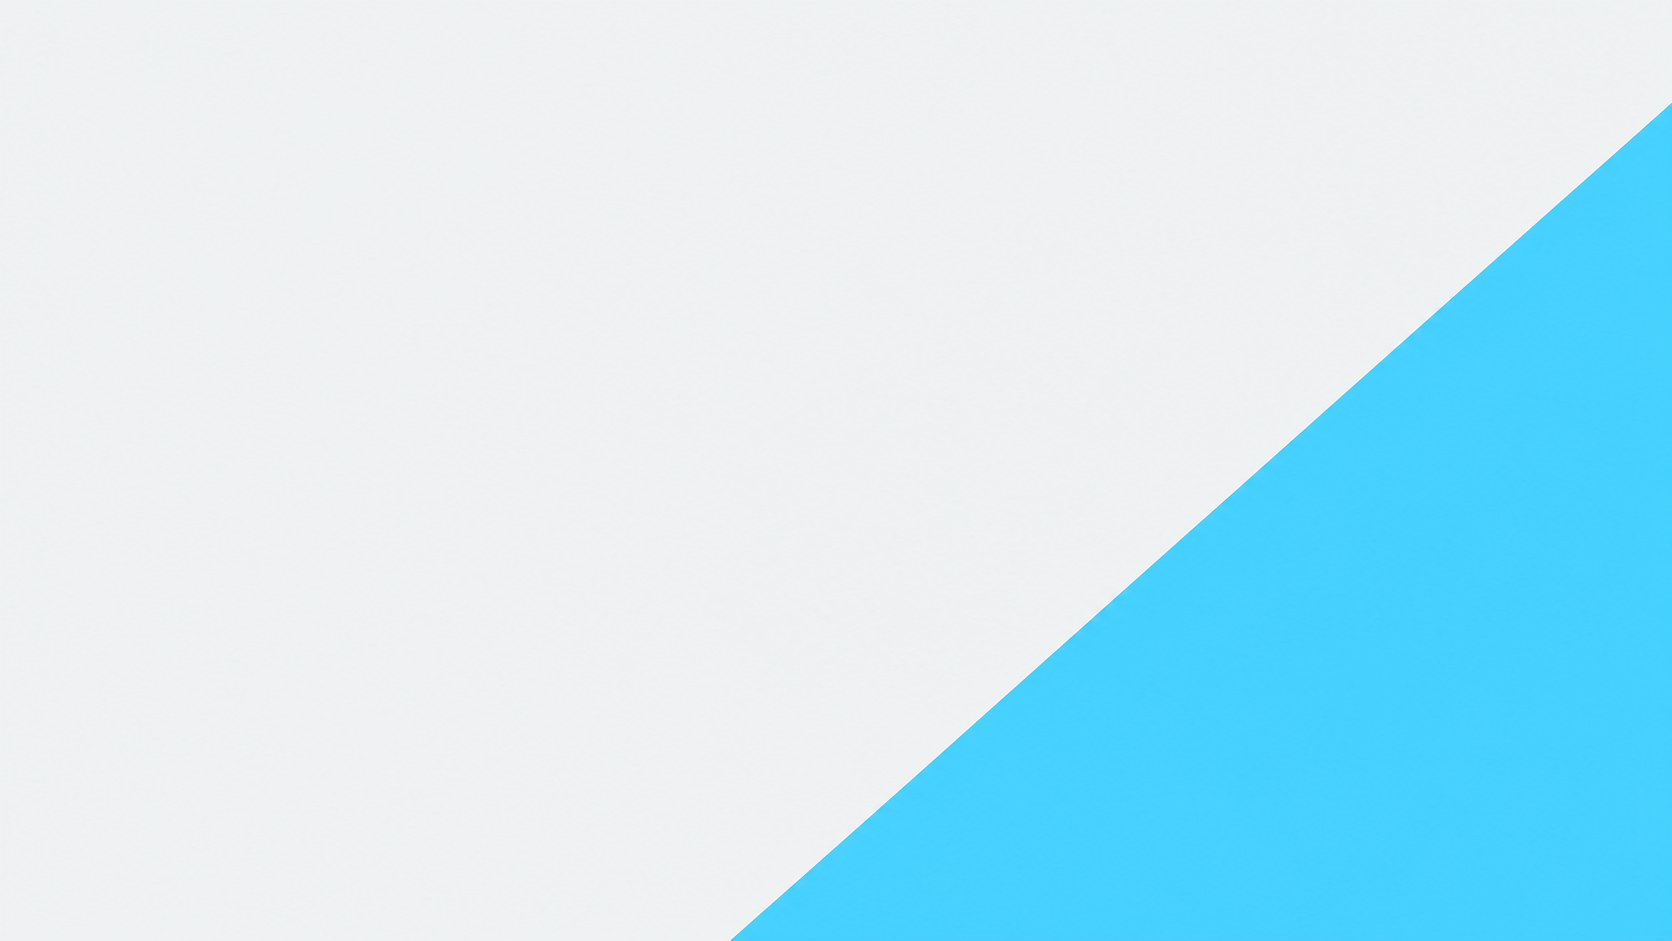
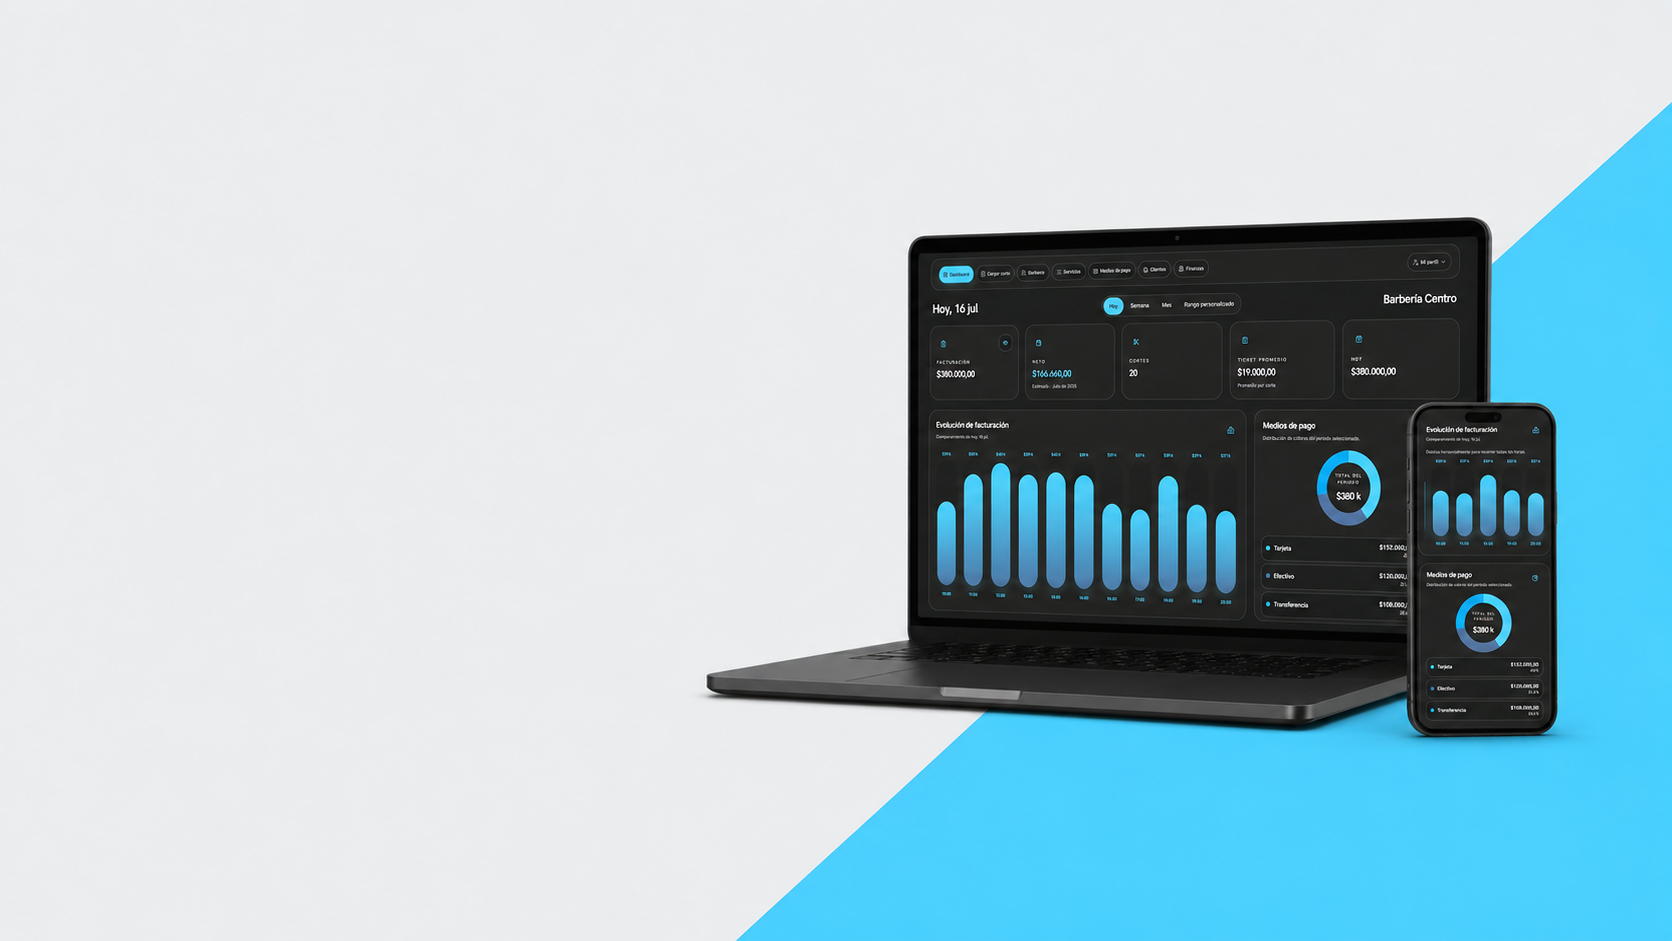
rediseno final de hero, eliminado de gradient en stepsection

Changed region(s): [[0.4043, 0.2157, 0.933, 0.8013], [0.4354, 0.9554, 0.4665, 1.0]]

diff --git a/resources/js/Components/HeroSection.jsx b/resources/js/Components/HeroSection.jsx
@@ -1,7 +1,6 @@
 import { Link } from '@inertiajs/react';
 import {
     IconArrowRight,
-    IconChartBar,
     IconPlayerPlayFilled,
     IconSparkles,
 } from '@tabler/icons-react';
@@ -22,27 +21,6 @@ function HeroAction({ href, inertia = false, className, children }) {
     );
 }
 
-function MetricCard({ label, value, detail, tone = 'default' }) {
-    const detailClassName =
-        tone === 'success'
-            ? 'text-brand-success'
-            : 'text-brand-text-secondary';
-
-    return (
-        <div className="rounded-brand-lg border border-brand-border bg-brand-surface-alt p-4 shadow-brand-card">
-            <p className="text-sm font-semibold text-brand-text-secondary">
-                {label}
-            </p>
-            <p className="mt-3 font-display text-2xl font-extrabold tracking-[-0.04em] text-brand-text">
-                {value}
-            </p>
-            <p className={`mt-2 text-sm font-medium ${detailClassName}`}>
-                {detail}
-            </p>
-        </div>
-    );
-}
-
 export default function HeroSection({
     primaryCta = {
         label: 'Probar gratis',
@@ -58,26 +36,23 @@ export default function HeroSection({
     return (
         <section
             id="inicio"
-            className="relative overflow-hidden px-6 pb-14 pt-8 sm:px-8 sm:pb-20 sm:pt-10 lg:px-10 xl:px-12"
+            className="relative flex min-h-[calc(100svh-76px)] overflow-hidden bg-cover bg-center bg-no-repeat px-5 py-10 sm:px-8 sm:py-12 lg:px-10 lg:py-10 xl:px-12"
+            style={{
+                backgroundImage: "url('/images/hero-background.png')",
+            }}
         >
-            <div className="pointer-events-none absolute inset-x-0 top-0 -z-10 h-full overflow-hidden">
-                <div className="absolute left-1/2 top-[-120px] h-[320px] w-[320px] -translate-x-1/2 rounded-full bg-brand-primary/14 blur-3xl sm:h-[420px] sm:w-[420px]" />
-                <div className="absolute right-[-80px] top-[120px] h-[240px] w-[240px] rounded-full bg-brand-primary-soft blur-3xl" />
-                <div className="absolute bottom-[40px] left-[-90px] h-[220px] w-[220px] rounded-full bg-brand-primary/10 blur-3xl" />
-            </div>
-
-            <div className="mx-auto grid w-full max-w-[1440px] gap-10 lg:grid-cols-[minmax(0,1.04fr)_minmax(0,0.96fr)] lg:items-center lg:gap-10 xl:gap-14">
-                <div className="flex flex-col items-start lg:pb-2">
+            <div className="mx-auto flex w-full max-w-[1760px] flex-1 items-center">
+                <div className="flex max-w-[760px] flex-col items-start lg:pb-2">
                     <div className="inline-flex min-h-[40px] items-center gap-2 rounded-brand-pill border border-brand-accent/20 bg-brand-accent/12 px-4 py-2 text-xs font-bold uppercase tracking-[0.16em] text-brand-accent">
                         <IconSparkles className="h-4 w-4" stroke={2.2} />
                         <span>Sistema de gestión para barberías</span>
                     </div>
 
-                    <h1 className="mt-6 max-w-[11ch] font-display text-4xl font-extrabold leading-[0.95] tracking-[-0.06em] text-brand-text sm:text-5xl lg:max-w-none lg:text-[3.55rem] xl:text-[4rem]">
-                        <span className="block lg:whitespace-nowrap">
+                    <h1 className="mt-6 max-w-[11ch] font-display text-4xl font-extrabold leading-[0.95] tracking-[-0.06em] text-brand-text sm:text-5xl lg:max-w-none lg:text-[3.25rem] xl:text-[3.55rem] 2xl:text-[3.75rem]">
+                        <span className="block xl:whitespace-nowrap">
                             Vos encargate de cortar.
                         </span>
-                        <span className="mt-1 block text-brand-primary lg:whitespace-nowrap">
+                        <span className="mt-1 block text-brand-primary xl:whitespace-nowrap">
                             Pelito ordena tu barbería.
                         </span>
                     </h1>
@@ -96,7 +71,10 @@ export default function HeroSection({
                             className="inline-flex min-h-[48px] items-center justify-center rounded-brand-pill bg-brand-primary px-6 text-sm font-bold text-brand-on-primary shadow-brand-cta transition-all duration-200 hover:-translate-y-0.5 hover:bg-brand-primary-hover focus:outline-none focus-visible:ring-2 focus-visible:ring-brand-primary focus-visible:ring-offset-2 motion-reduce:transform-none motion-reduce:transition-none"
                         >
                             <span>{primaryCta.label}</span>
-                            <IconArrowRight className="ml-2 h-4 w-4" stroke={2.4} />
+                            <IconArrowRight
+                                className="ml-2 h-4 w-4"
+                                stroke={2.4}
+                            />
                         </HeroAction>
 
                         <HeroAction
@@ -127,137 +105,6 @@ export default function HeroSection({
                     </div>
                 </div>
 
-                <div className="relative w-full lg:max-w-[760px] lg:justify-self-end xl:max-w-[800px]">
-                    <div className="rounded-brand-xl border border-brand-border bg-brand-surface p-4 shadow-brand-floating sm:p-5 xl:p-6">
-                        <div className="flex items-center justify-between border-b border-brand-border-subtle pb-4">
-                            <div className="flex items-center gap-3">
-                                <div className="flex h-11 w-11 items-center justify-center rounded-brand-lg bg-brand-primary-soft text-brand-primary-soft-text">
-                                    <IconChartBar className="h-5 w-5" stroke={2.2} />
-                                </div>
-                                <div>
-                                    <p className="text-sm font-semibold text-brand-text">
-                                        Panel de rendimiento
-                                    </p>
-                                    <p className="text-sm text-brand-text-secondary">
-                                        Resumen operativo del mes
-                                    </p>
-                                </div>
-                            </div>
-                            <div className="rounded-brand-pill bg-brand-success-soft px-3 py-1 text-xs font-bold text-brand-success">
-                                +12%
-                            </div>
-                        </div>
-
-                        <div className="mt-5 grid gap-4 sm:grid-cols-2">
-                            <MetricCard
-                                label="Facturación"
-                                value="$1.240.000"
-                                detail="386 servicios registrados"
-                            />
-                            <MetricCard
-                                label="Ganancia neta"
-                                value="$480.000"
-                                detail="+8,5% vs mes anterior"
-                                tone="success"
-                            />
-                        </div>
-
-                        <div className="mt-4 grid gap-4 lg:grid-cols-[1.1fr_0.9fr]">
-                            <div className="rounded-brand-lg border border-brand-border bg-brand-surface p-5 shadow-brand-card">
-                                <div className="flex items-center justify-between">
-                                    <div>
-                                        <p className="text-sm font-semibold text-brand-text-secondary">
-                                            Ranking de barberos
-                                        </p>
-                                        <p className="mt-1 text-lg font-bold text-brand-text">
-                                            Lucas R. lidera el mes
-                                        </p>
-                                    </div>
-                                    <span className="rounded-brand-pill border border-brand-accent/20 bg-brand-accent/12 px-3 py-1 text-xs font-bold text-brand-accent">
-                                        Top 1
-                                    </span>
-                                </div>
-
-                                <div className="mt-5 space-y-3">
-                                    {[
-                                        ['Lucas R.', '118 servicios', '100%'],
-                                        ['Mati N.', '94 servicios', '79%'],
-                                        ['Agus G.', '82 servicios', '69%'],
-                                    ].map(([name, services, width]) => (
-                                        <div key={name}>
-                                            <div className="flex items-center justify-between text-sm">
-                                                <span className="font-semibold text-brand-text">
-                                                    {name}
-                                                </span>
-                                                <span className="text-brand-text-secondary">
-                                                    {services}
-                                                </span>
-                                            </div>
-                                            <div className="mt-2 h-2 rounded-full bg-brand-border-subtle">
-                                                <div
-                                                    className="h-2 rounded-full bg-brand-primary"
-                                                    style={{ width }}
-                                                />
-                                            </div>
-                                        </div>
-                                    ))}
-                                </div>
-                            </div>
-
-                            <div className="rounded-brand-lg border border-brand-border bg-brand-nav-bg p-5 shadow-brand-card">
-                                <p className="text-sm font-semibold text-brand-text-on-dark">
-                                    Medio principal
-                                </p>
-                                <p className="mt-2 font-display text-3xl font-extrabold tracking-[-0.04em] text-brand-surface">
-                                    Transferencia
-                                </p>
-                                <p className="mt-2 text-sm leading-6 text-brand-text-on-dark">
-                                    El 62% de la facturación del mes entró por
-                                    transferencia. También podés ver efectivo,
-                                    tarjeta y neto por sucursal.
-                                </p>
-
-                                <div className="mt-6 space-y-3">
-                                    {[
-                                        ['Transferencia', '62%'],
-                                        ['Efectivo', '24%'],
-                                        ['Tarjeta', '14%'],
-                                    ].map(([label, value]) => (
-                                        <div
-                                            key={label}
-                                            className="flex items-center justify-between rounded-brand-md bg-brand-surface/10 px-4 py-3"
-                                        >
-                                            <span className="text-sm font-semibold text-brand-surface">
-                                                {label}
-                                            </span>
-                                            <span className="text-sm font-bold text-brand-surface">
-                                                {value}
-                                            </span>
-                                        </div>
-                                    ))}
-                                </div>
-                            </div>
-                        </div>
-                    </div>
-
-                    <div className="absolute right-3 top-5 hidden rounded-brand-lg border border-brand-border bg-brand-surface px-4 py-3 shadow-brand-card xl:block">
-                        <p className="text-xs font-bold uppercase tracking-[0.14em] text-brand-accent">
-                            Reporte enviado
-                        </p>
-                        <p className="mt-1 text-sm font-semibold text-brand-text">
-                            Resumen listo para revisar
-                        </p>
-                    </div>
-
-                    <div className="absolute bottom-[-22px] left-4 hidden rounded-brand-lg border border-brand-border bg-brand-surface px-4 py-3 shadow-brand-card xl:block">
-                        <p className="text-xs font-bold uppercase tracking-[0.14em] text-brand-accent">
-                            Ganancia neta
-                        </p>
-                        <p className="mt-1 text-sm font-semibold text-brand-text">
-                            +8,5% este mes
-                        </p>
-                    </div>
-                </div>
             </div>
         </section>
     );

diff --git a/resources/js/Pages/Owner/Barberias/Dashboard.jsx b/resources/js/Pages/Owner/Barberias/Dashboard.jsx
@@ -348,7 +348,7 @@ function EvolutionChart({ evolution, today }) {
 
     if (items.length === 0) {
         return (
-            <div className="flex h-64 items-center justify-center rounded-[22px] bg-brand-surface-alt/80 px-6 text-center text-sm text-brand-text-secondary">
+            <div className="flex min-h-64 flex-1 items-center justify-center rounded-[22px] bg-brand-surface-alt/80 px-6 text-center text-sm text-brand-text-secondary">
                 Todavía no hay facturación registrada hoy.
             </div>
         );
@@ -356,12 +356,12 @@ function EvolutionChart({ evolution, today }) {
 
     return (
         <div
-            className="w-full min-w-0 max-w-full snap-x snap-proximity overflow-x-auto overscroll-x-contain pb-2 focus-visible:rounded-brand-sm focus-visible:outline-none focus-visible:ring-2 focus-visible:ring-brand-primary"
+            className="flex min-h-64 w-full min-w-0 max-w-full flex-1 snap-x snap-proximity overflow-x-auto overscroll-x-contain pb-2 focus-visible:rounded-brand-sm focus-visible:outline-none focus-visible:ring-2 focus-visible:ring-brand-primary"
             role="region"
             aria-label="Gráfico desplazable de evolución de facturación"
             tabIndex={isScrollable ? 0 : undefined}
         >
-            <div className="flex h-64 items-end gap-3 sm:gap-4" style={{ minWidth }} role="list" aria-label="Evolución de facturación">
+            <div className="flex min-h-64 flex-1 items-stretch gap-3 sm:gap-4" style={{ minWidth }} role="list" aria-label="Evolución de facturación">
                 {items.map((item) => {
                     const height = item.total > 0 ? Math.max((Number(item.total) / maxTotal) * 100, 9) : 5;
                     const includesToday = granularity === 'hour' || (item.start <= today && item.end >= today);
@@ -369,14 +369,14 @@ function EvolutionChart({ evolution, today }) {
                     return (
                         <div
                             key={`${item.start}-${item.end}`}
-                            className={`flex flex-1 snap-start flex-col items-center justify-end gap-2 ${isHourly ? 'min-w-[52px]' : 'min-w-[42px]'}`}
+                            className={`flex min-h-0 flex-1 snap-start flex-col items-center gap-2 ${isHourly ? 'min-w-[52px]' : 'min-w-[42px]'}`}
                             role="listitem"
                             aria-label={`${bucketLabel(item, granularity)}: ${formatMoney(item.total)}, ${item.cantidad} cortes`}
                         >
                             <p className={`max-w-full truncate text-[11px] font-semibold ${includesToday ? 'text-brand-primary' : 'text-brand-text-secondary'}`} title={formatMoney(item.total)}>
                                 {formatCompactMoney(item.total)}
                             </p>
-                            <div className={`flex h-36 w-full items-end rounded-full bg-brand-surface-alt/80 px-1.5 py-1.5 ${isHourly ? 'max-w-20' : ''}`} aria-hidden="true">
+                            <div className={`flex min-h-20 w-full flex-1 items-end rounded-full bg-brand-surface-alt/80 px-1.5 py-1.5 ${isHourly ? 'max-w-20' : ''}`} aria-hidden="true">
                                 <div
                                     className={`w-full rounded-full transition-all ${
                                         includesToday
@@ -519,7 +519,7 @@ export default function Dashboard({
 
                     <section className="min-w-0" aria-label="Facturación y pagos">
                         <div className="grid min-w-0 grid-cols-[minmax(0,1fr)] gap-6 xl:grid-cols-[minmax(0,1.35fr)_minmax(320px,0.65fr)]">
-                            <article className="min-w-0 rounded-[28px] border border-brand-border bg-brand-surface p-5 shadow-brand-card sm:p-6">
+                            <article className="flex min-w-0 flex-col rounded-[28px] border border-brand-border bg-brand-surface p-5 shadow-brand-card sm:p-6">
                                 <div className="flex items-start justify-between gap-4">
                                     <div className="min-w-0">
                                         <h3 className="text-xl font-semibold tracking-[-0.03em] text-brand-text">Evolución de facturación</h3>
@@ -530,7 +530,7 @@ export default function Dashboard({
                                     </span>
                                 </div>
 
-                                <div className="mt-6 min-w-0">
+                                <div className="mt-6 flex min-h-0 min-w-0 flex-1 flex-col">
                                     {evolucionFacturacion.items.length > (evolucionFacturacion.granularity === 'hour' ? 5 : 10) && (
                                         <p className="mb-3 text-xs text-brand-text-secondary sm:hidden">
                                             Deslizá horizontalmente para recorrer todas las {evolucionFacturacion.granularity === 'hour' ? 'horas' : 'fechas'}.

diff --git a/resources/js/Components/StepSection.jsx b/resources/js/Components/StepSection.jsx
@@ -433,8 +433,6 @@ export default function StepSection({
             ref={sectionRef}
             className="relative overflow-hidden px-6 py-16 sm:px-8 sm:py-24 lg:px-10 lg:py-28 xl:px-12"
         >
-            <div className="pointer-events-none absolute inset-x-0 top-24 h-64 bg-[radial-gradient(circle_at_top,rgba(72,213,252,0.12),transparent_60%)]" />
-
             <div className="mx-auto w-full max-w-[1180px]">
                 <div className="mx-auto max-w-3xl text-center">
                     <span className="inline-flex rounded-brand-pill bg-brand-primary-tint px-4 py-2 text-[0.68rem] font-bold uppercase tracking-[0.18em] text-brand-primary-soft-text">